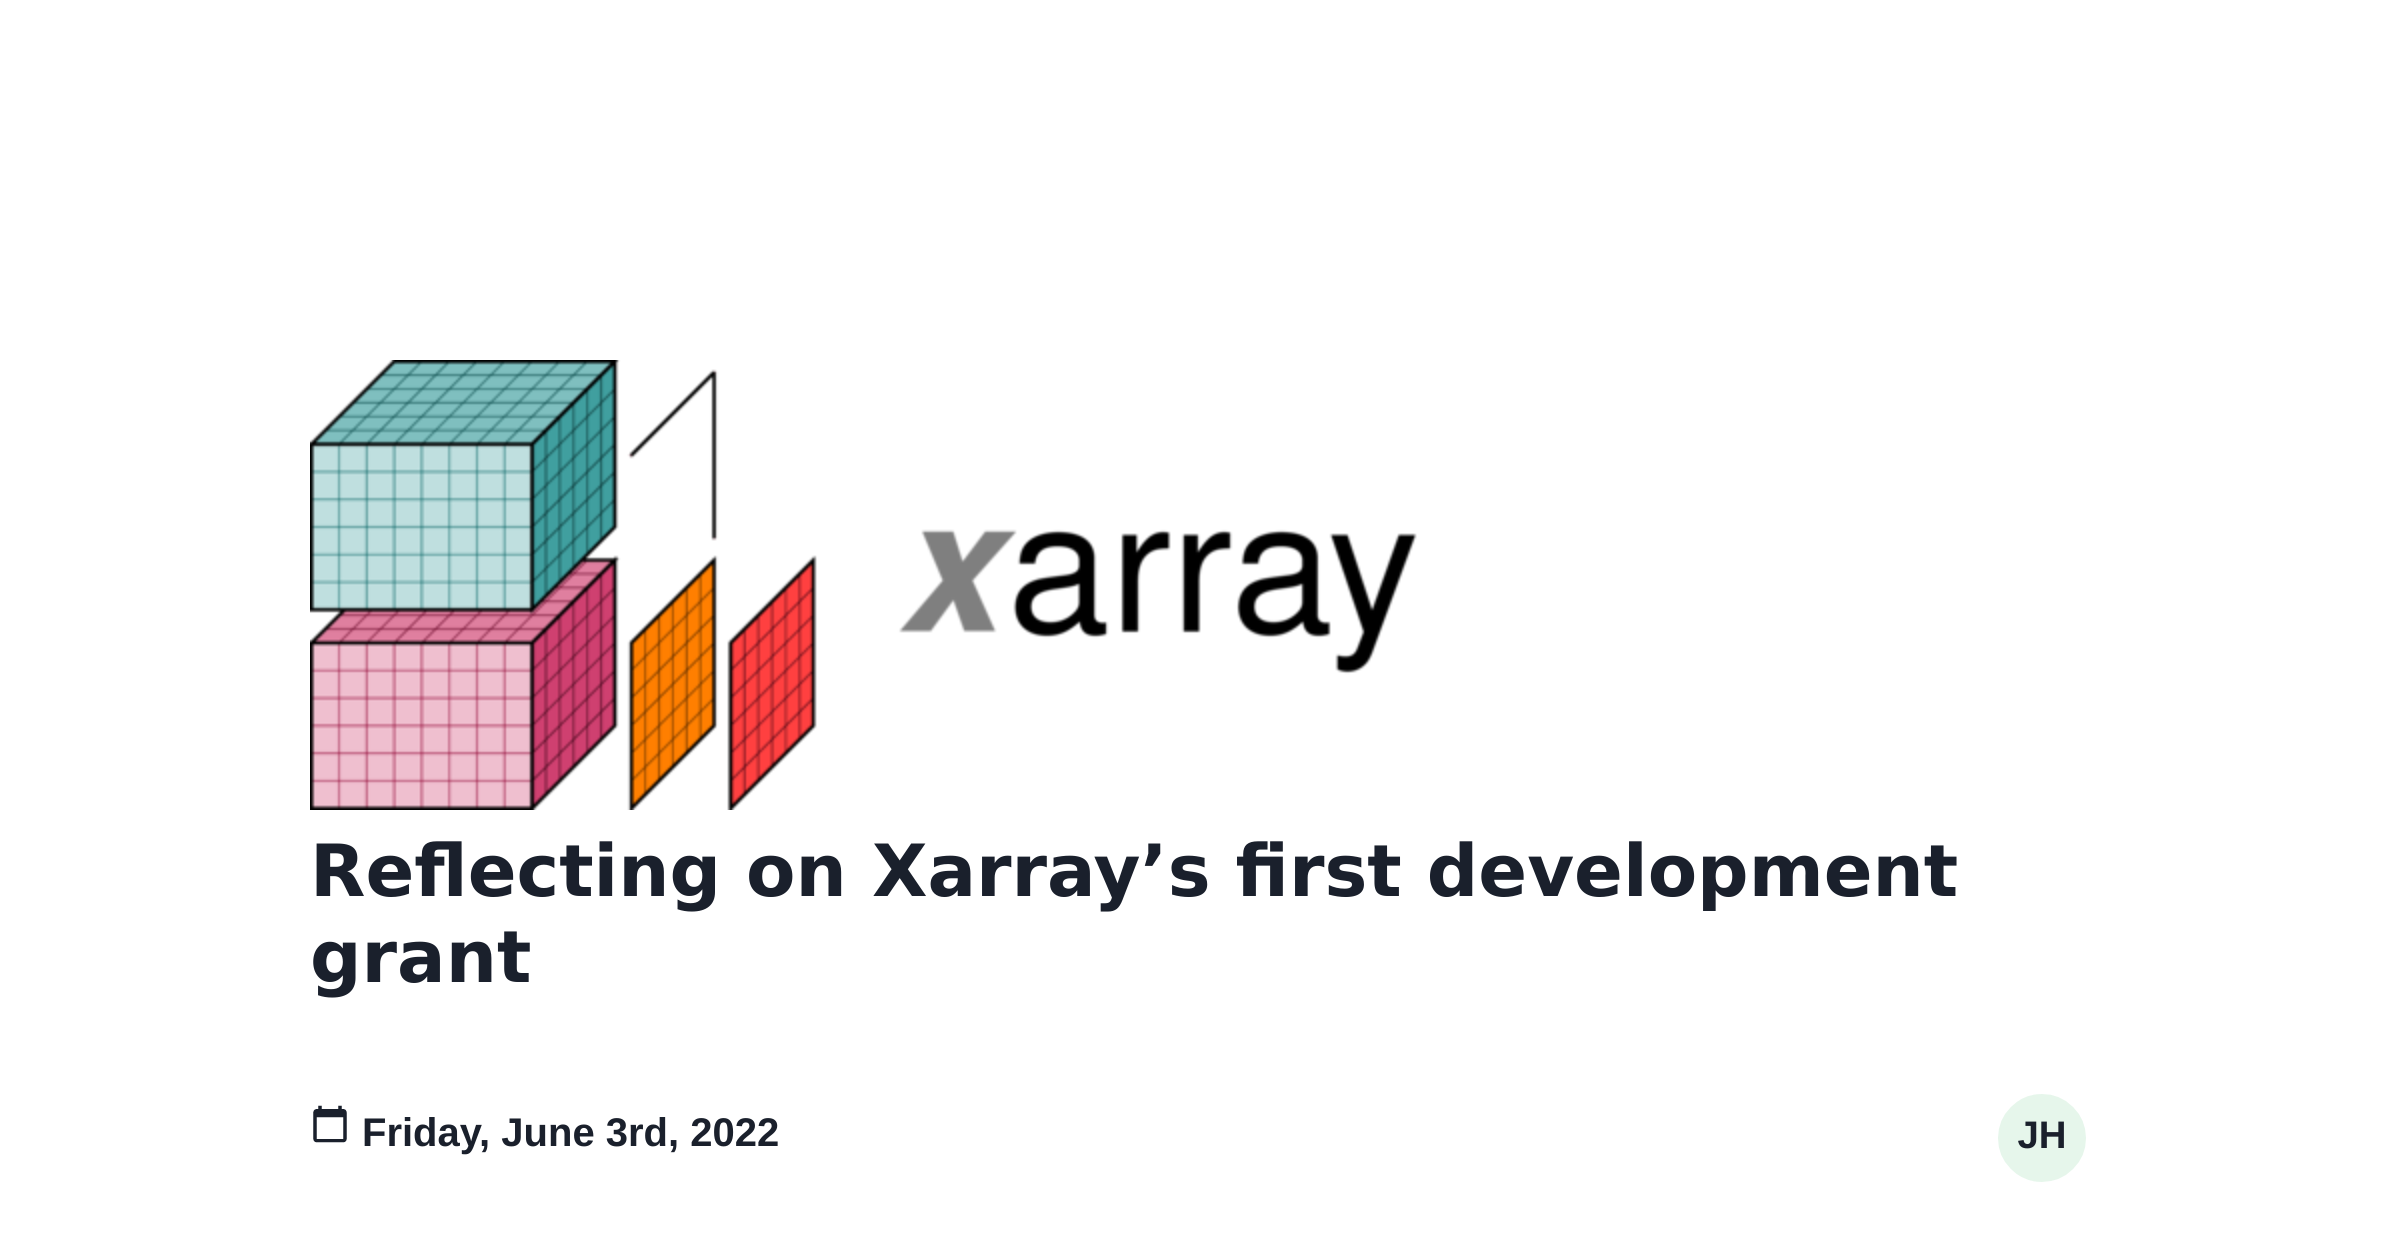
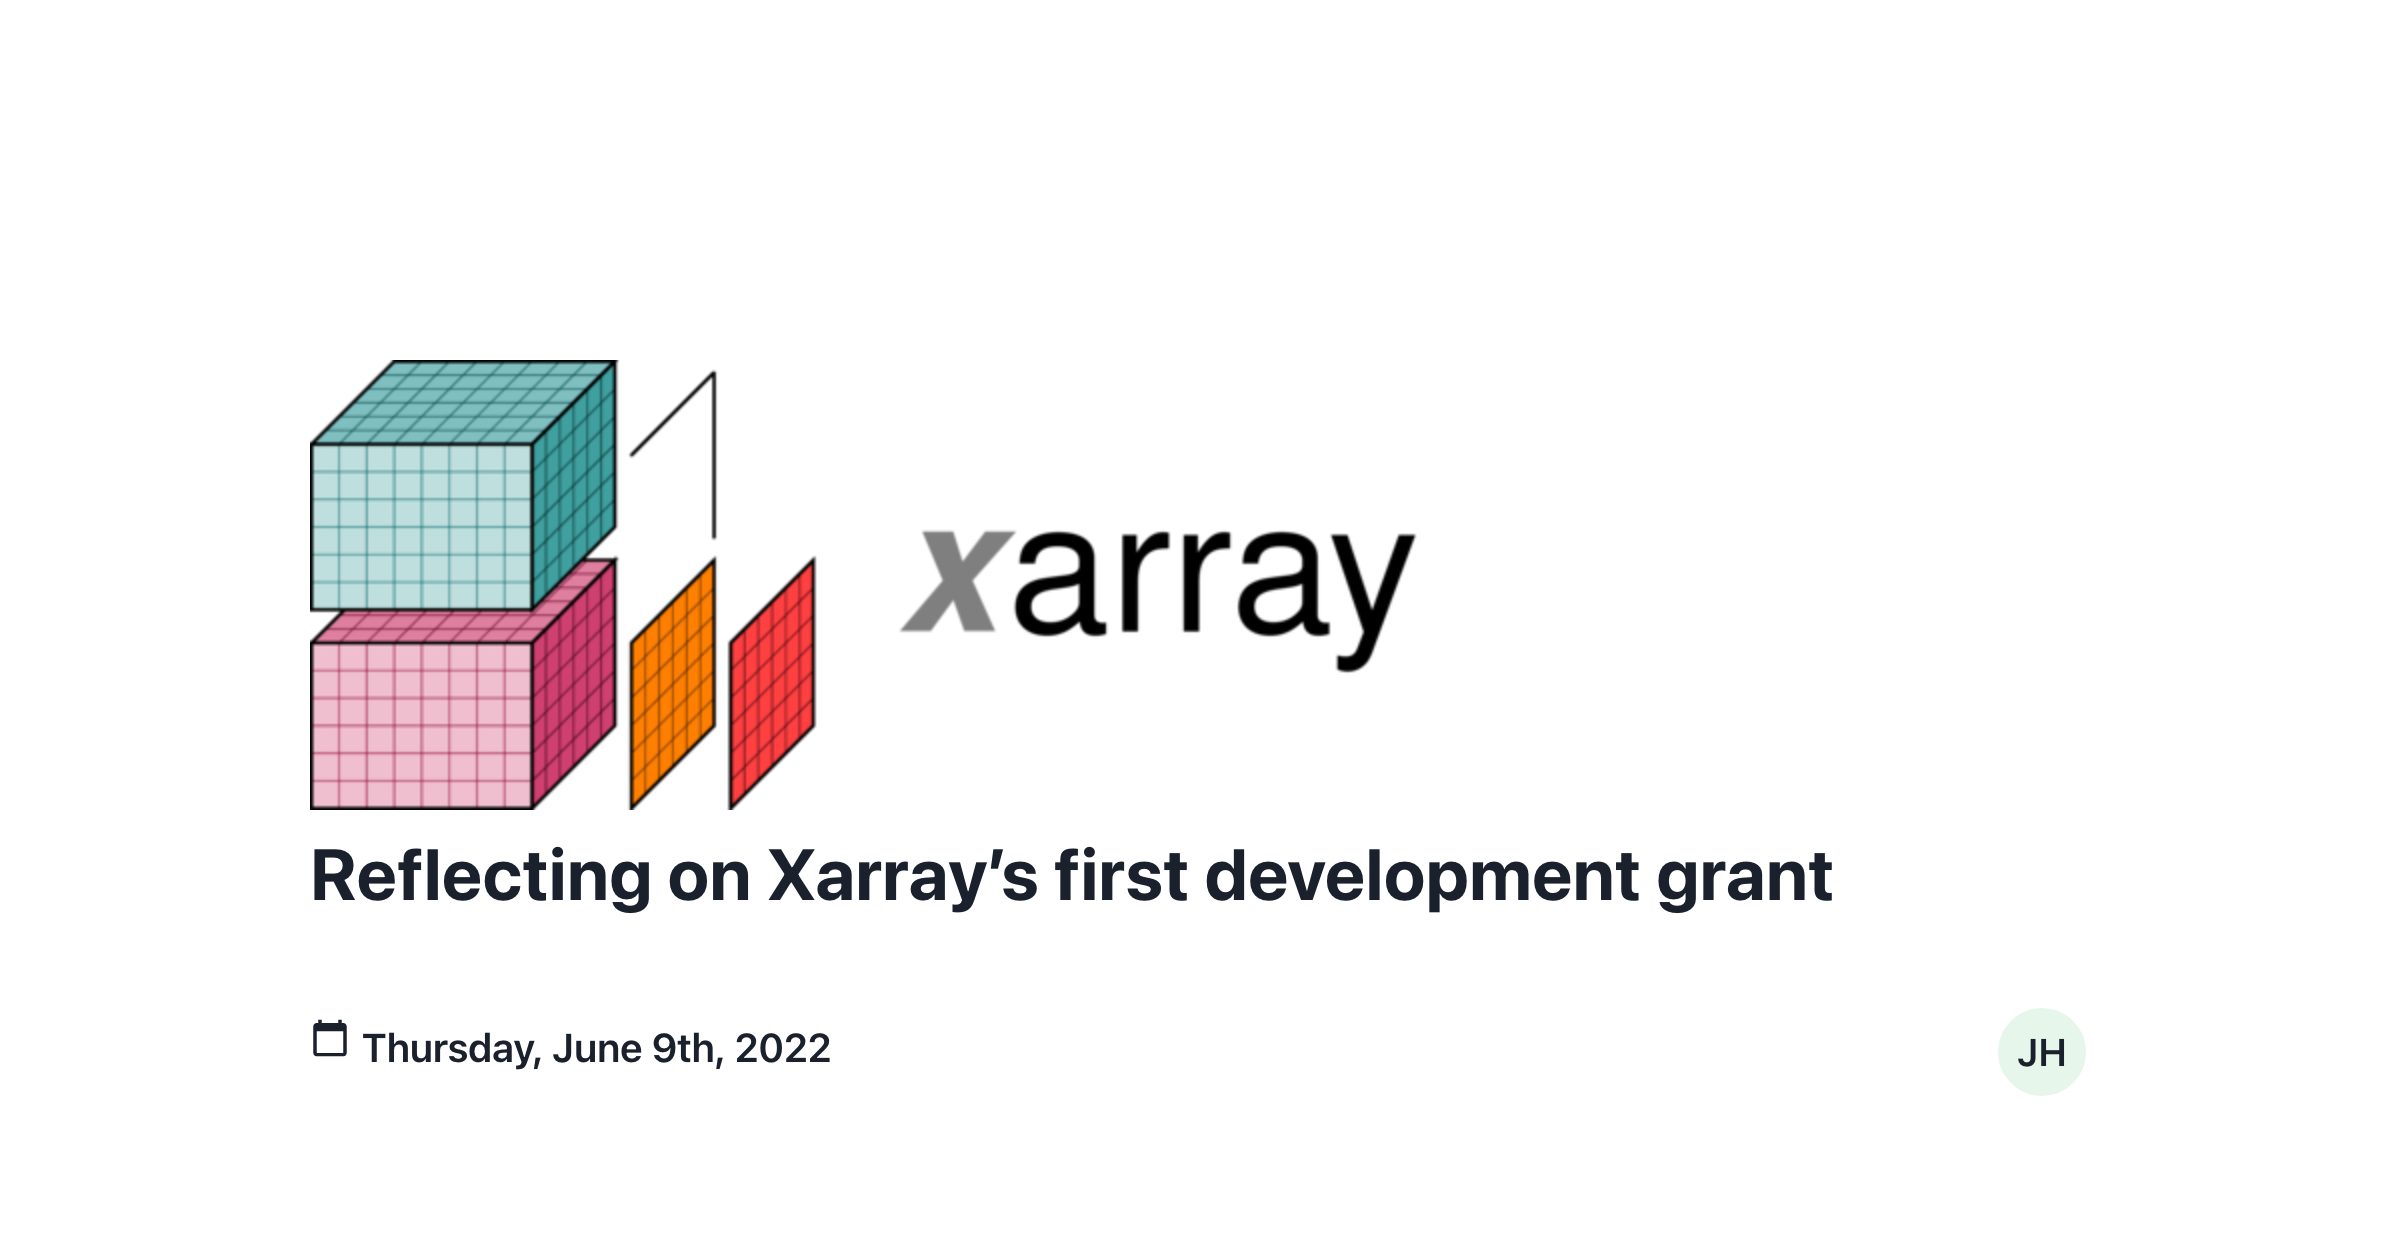
update publish date

Changed region(s): [[0.125, 0.65, 0.8125, 0.7429], [0.125, 0.7429, 0.3438, 0.9286], [0.8125, 0.8048, 0.875, 0.9595]]

diff --git a/src/posts/czi-eoss-grant-conclusion/index.md b/src/posts/czi-eoss-grant-conclusion/index.md
@@ -1,6 +1,6 @@
 ---
 title: "Reflecting on Xarray’s first development grant"
-date: "2022-06-03"
+date: "2022-06-09"
 authors:
   - Joe Hamman
 summary: "A brief recap of our CZI EOSS grant, accomplishments and learnings."
